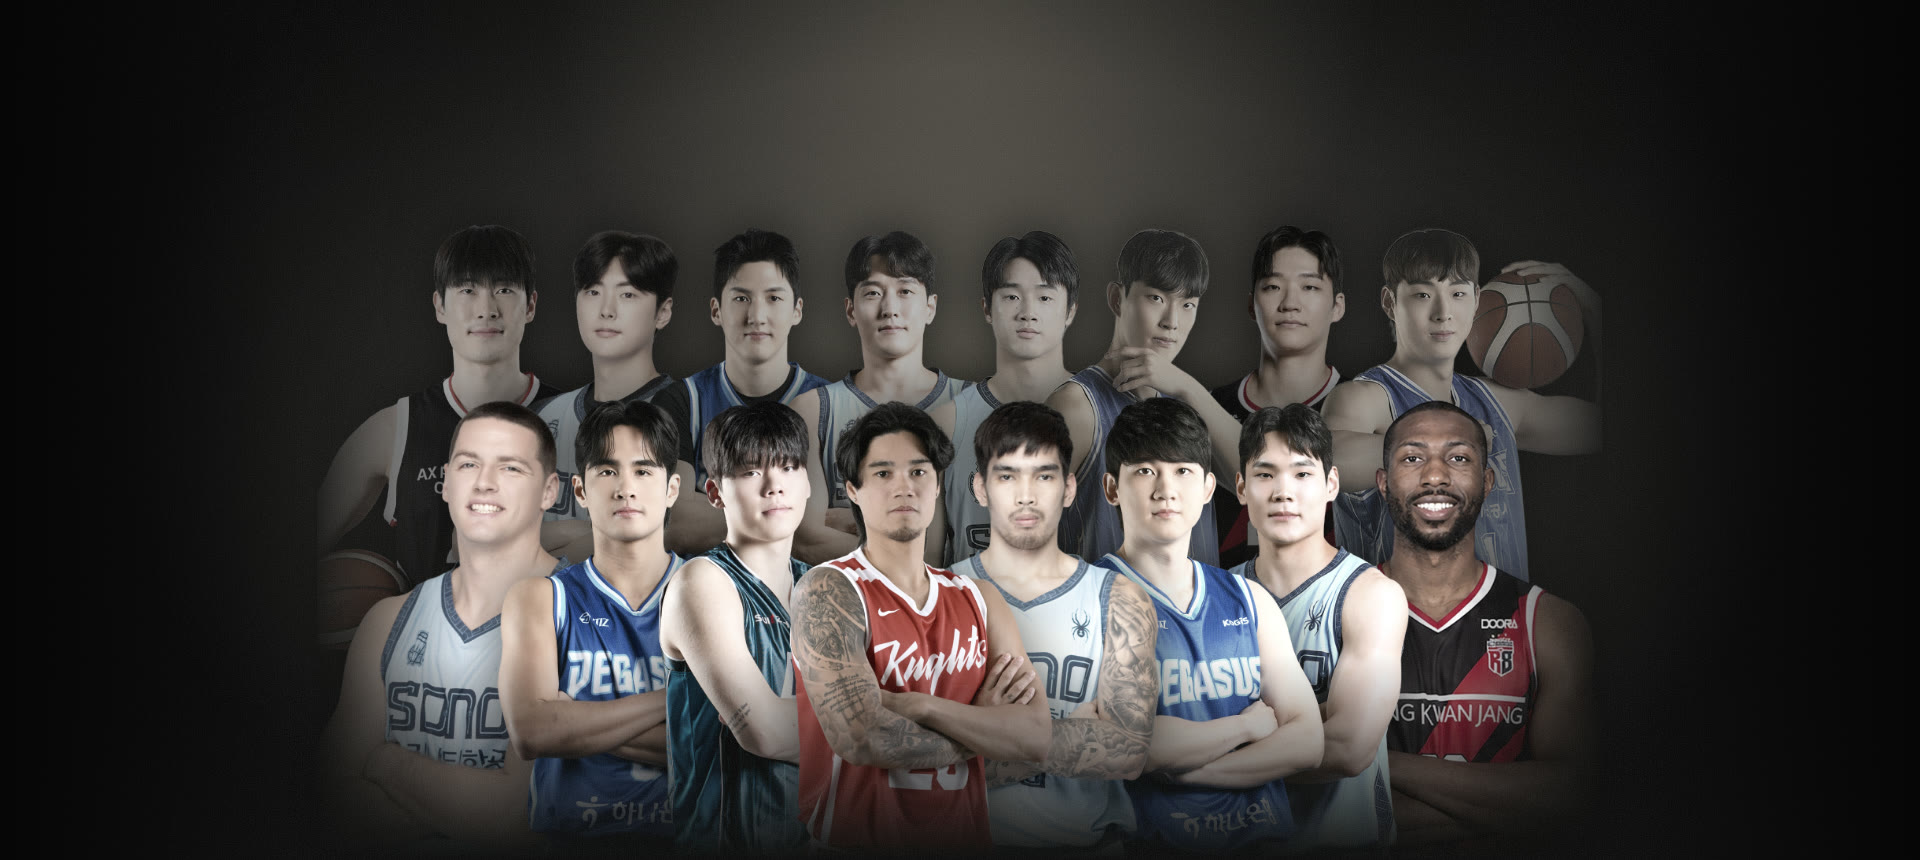
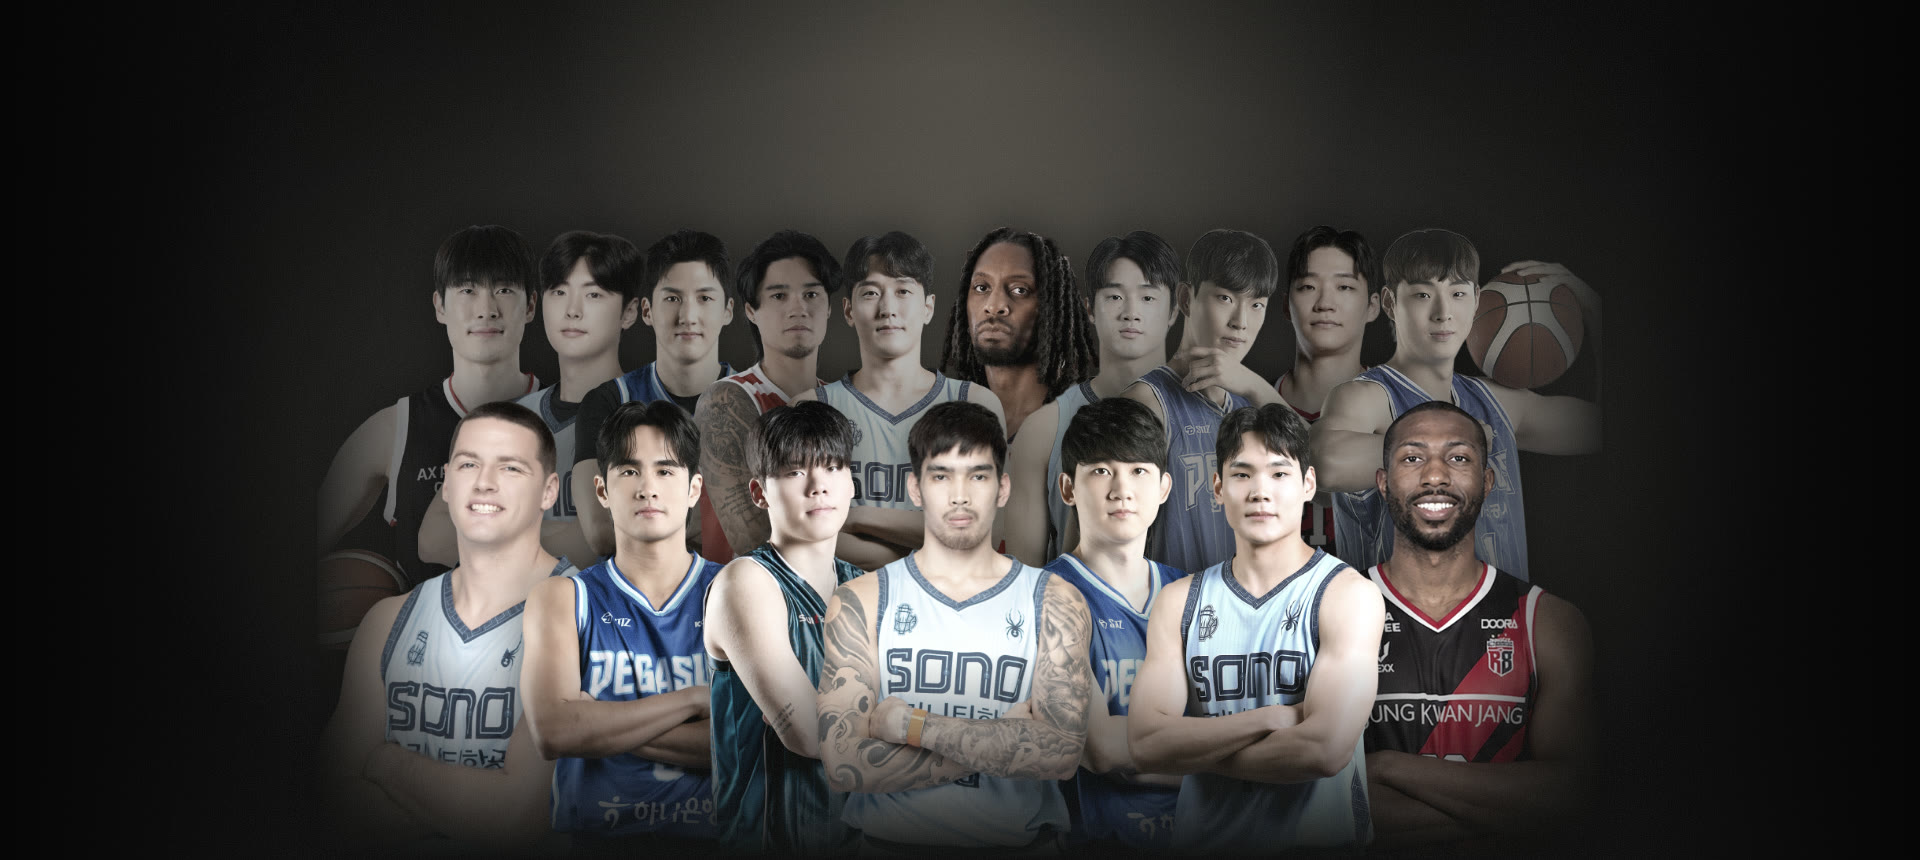
home: 17-player main photo (Tolentino to back row, add Jarrod Jones)

Changed region(s): [[0.25, 0.2721, 0.75, 0.9674], [0.2188, 0.5744, 0.25, 0.6651]]

diff --git a/home.html b/home.html
@@ -125,7 +125,7 @@ footer{padding:0 24px 40px;text-align:center;color:#8f8f8f;font-size:12px;letter
 <body>
 <main>
 <section class="hero">
-  <picture><source media="(max-width:640px)" srcset="photos/hero_m.jpg" width="1080" height="1150"><img src="photos/hero_pc.jpg" width="1920" height="860" alt="리고러코리아 소속 KBL 선수 16명" fetchpriority="high"></picture>
+  <picture><source media="(max-width:640px)" srcset="photos/hero_m.jpg" width="1080" height="1150"><img src="photos/hero_pc.jpg" width="1920" height="860" alt="리고러코리아 소속 KBL 선수 17명" fetchpriority="high"></picture>
   <div class="txt">
     <div class="kicker">RIGORER KOREA · SINCE 2020</div>
     <h1>FROM STREET TO KBL,<br class="hm"> AND <span>NEXT?</span></h1>
